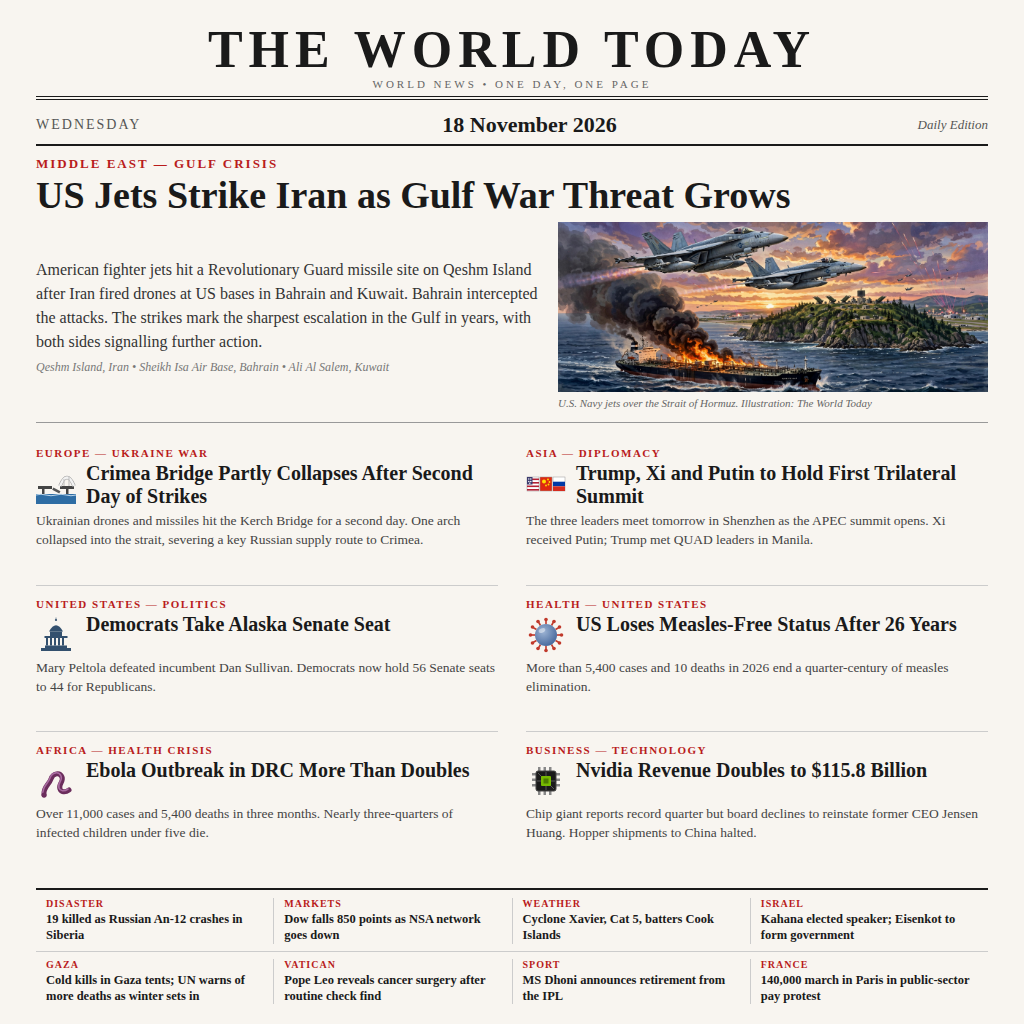
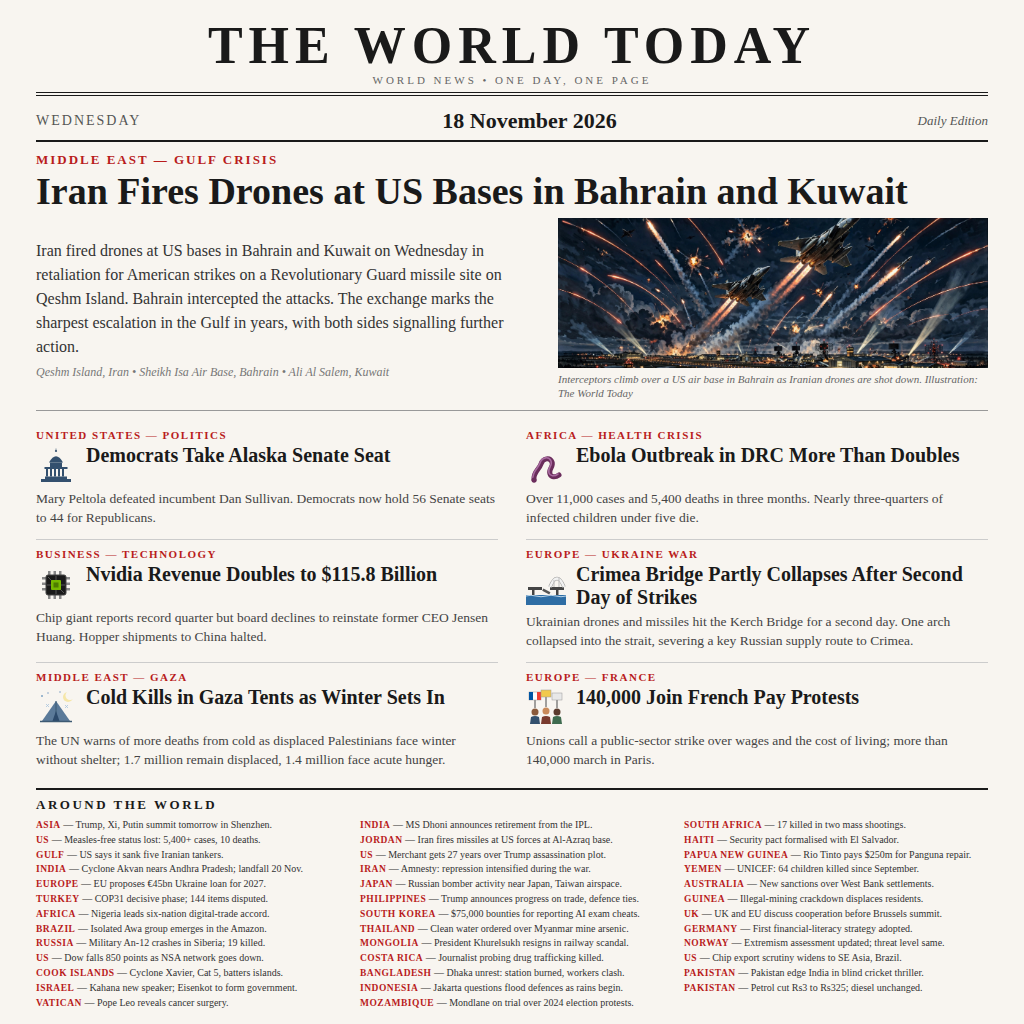
45 stories: reframed drone lead, distinct grid, Around the World

Changed region(s): [[0.0312, 0.0, 0.9688, 1.0], [0.2188, 0.0312, 0.3125, 0.0938]]

diff --git a/image.html b/image.html
@@ -5,7 +5,7 @@
 <style>
   * { margin: 0; padding: 0; box-sizing: border-box; }
   body { width: 1024px; height: 1024px; font-family: Georgia, 'Times New Roman', serif; background: #f8f5f0; color: #1a1a1a; overflow: hidden; }
-  .page { width: 1024px; height: 1024px; padding: 24px 36px 20px; display: flex; flex-direction: column; }
+  .page { width: 1024px; height: 1024px; padding: 20px 36px 14px; display: flex; flex-direction: column; }
 
   /* Masthead */
   .masthead { text-align: center; border-bottom: 4px double #1a1a1a; padding-bottom: 6px; margin-bottom: 6px; }
@@ -19,7 +19,7 @@
   .datebar .edition { font-size: 13px; font-style: italic; color: #555; }
 
   /* Lead story */
-  .lead { border-bottom: 1px solid #999; padding-bottom: 12px; margin-bottom: 12px; }
+  .lead { border-bottom: 1px solid #999; padding-bottom: 10px; margin-bottom: 10px; }
   .lead .kicker { font-size: 13px; font-weight: 700; text-transform: uppercase; letter-spacing: 2px; color: #b91c1c; margin-bottom: 4px; }
   .lead h2 { font-size: 38px; font-weight: 900; line-height: 1.05; margin-bottom: 6px; }
   .lead-row { display: flex; gap: 16px; align-items: center; }
@@ -27,12 +27,12 @@
   .lead-text p { font-size: 16px; line-height: 1.5; color: #333; }
   .lead-text .meta { font-size: 12px; color: #777; margin-top: 6px; font-style: italic; }
   .lead-art { width: 430px; flex-shrink: 0; }
-  .lead-art img { width: 430px; height: 170px; object-fit: cover; object-position: center 42%; display: block; }
+  .lead-art img { width: 430px; height: 150px; object-fit: cover; object-position: center 50%; display: block; }
   .lead-art .caption { font-size: 11px; font-style: italic; color: #666; margin-top: 4px; line-height: 1.3; }
 
   /* Story grid */
   .grid { display: grid; grid-template-columns: 1fr 1fr; gap: 0 28px; flex: 1; }
-  .story { border-bottom: 1px solid #ccc; padding: 12px 0; }
+  .story { border-bottom: 1px solid #ccc; padding: 8px 0; }
   .story:last-child, .story:nth-last-child(2) { border-bottom: none; }
   .story .kicker { font-size: 11px; font-weight: 700; text-transform: uppercase; letter-spacing: 1.5px; color: #b91c1c; margin-bottom: 3px; }
   .story .head-row { display: flex; gap: 10px; align-items: flex-start; margin-bottom: 4px; }
@@ -40,14 +40,12 @@
   .story h3 { font-size: 20px; font-weight: 800; line-height: 1.15; flex: 1; }
   .story p { font-size: 13.5px; line-height: 1.4; color: #444; }
 
-  /* Bottom strip — two rows of briefs */
-  .bottom { border-top: 2px solid #1a1a1a; padding-top: 8px; margin-top: 10px; }
-  .bottom-row { display: flex; justify-content: space-between; }
-  .bottom-row + .bottom-row { border-top: 1px solid #ccc; margin-top: 7px; padding-top: 7px; }
-  .bottom .item { flex: 1; padding: 0 10px; border-right: 1px solid #ccc; }
-  .bottom .item:last-child { border-right: none; }
-  .bottom .item .label { font-size: 10px; font-weight: 700; text-transform: uppercase; letter-spacing: 1px; color: #b91c1c; }
-  .bottom .item .text { font-size: 12.5px; font-weight: 700; line-height: 1.3; margin-top: 2px; }
+  /* Around the World — three columns of one-liners */
+  .around { border-top: 2px solid #1a1a1a; padding-top: 7px; margin-top: 8px; }
+  .around h4 { font-size: 13px; font-weight: 900; letter-spacing: 2.5px; text-transform: uppercase; margin-bottom: 4px; }
+  .around .cols { display: grid; grid-template-columns: 1fr 1fr 1fr; grid-template-rows: repeat(13, auto); grid-auto-flow: column; gap: 0 20px; }
+  .around .wl { font-size: 10px; line-height: 1.35; color: #333; padding: 0.5px 0; }
+  .around .wl b { color: #b91c1c; font-size: 9.5px; letter-spacing: 0.5px; text-transform: uppercase; }
 </style>
 </head>
 <body>
@@ -66,67 +64,20 @@
 
   <div class="lead">
     <div class="kicker">Middle East &mdash; Gulf Crisis</div>
-    <h2>US Jets Strike Iran as Gulf War Threat Grows</h2>
+    <h2>Iran Fires Drones at US Bases in Bahrain and Kuwait</h2>
     <div class="lead-row">
       <div class="lead-text">
-        <p>American fighter jets hit a Revolutionary Guard missile site on Qeshm Island after Iran fired drones at US bases in Bahrain and Kuwait. Bahrain intercepted the attacks. The strikes mark the sharpest escalation in the Gulf in years, with both sides signalling further action.</p>
+        <p>Iran fired drones at US bases in Bahrain and Kuwait on Wednesday in retaliation for American strikes on a Revolutionary Guard missile site on Qeshm Island. Bahrain intercepted the attacks. The exchange marks the sharpest escalation in the Gulf in years, with both sides signalling further action.</p>
         <div class="meta">Qeshm Island, Iran &bull; Sheikh Isa Air Base, Bahrain &bull; Ali Al Salem, Kuwait</div>
       </div>
       <div class="lead-art">
-        <img src="lead.jpg" alt="U.S. Navy jets over the Strait of Hormuz">
-        <div class="caption">U.S. Navy jets over the Strait of Hormuz. Illustration: The World Today</div>
+        <img src="lead.jpg" alt="Interceptors climb over a US air base in Bahrain at night">
+        <div class="caption">Interceptors climb over a US air base in Bahrain as Iranian drones are shot down. Illustration: The World Today</div>
       </div>
     </div>
   </div>
 
   <div class="grid">
-    <div class="story">
-      <div class="kicker">Europe &mdash; Ukraine War</div>
-      <div class="head-row">
-        <svg class="icon" viewBox="0 0 40 40">
-          <rect x="0" y="30" width="40" height="10" fill="#2e6da4"/>
-          <path d="M0 31 Q5 29.5 10 31 T20 31 T30 31 T40 31" stroke="#bcd6ea" stroke-width="1" fill="none"/>
-          <rect x="2" y="22" width="14" height="3" fill="#444"/>
-          <rect x="24" y="22" width="14" height="3" fill="#444"/>
-          <rect x="6" y="25" width="2.5" height="5" fill="#444"/>
-          <rect x="30" y="25" width="2.5" height="5" fill="#444"/>
-          <path d="M24 22 Q31 5 38 22" stroke="#999" stroke-width="3.5" fill="none"/>
-          <path d="M24 22 Q31 5 38 22" stroke="#f2f2f2" stroke-width="2.5" fill="none"/>
-          <line x1="28" y1="15" x2="28" y2="22" stroke="#bbb" stroke-width="1"/>
-          <line x1="33" y1="13" x2="33" y2="22" stroke="#bbb" stroke-width="1"/>
-          <rect x="16.5" y="25" width="8" height="2.5" fill="#555" transform="rotate(28 20 26)"/>
-        </svg>
-        <h3>Crimea Bridge Partly Collapses After Second Day of Strikes</h3>
-      </div>
-      <p>Ukrainian drones and missiles hit the Kerch Bridge for a second day. One arch collapsed into the strait, severing a key Russian supply route to Crimea.</p>
-    </div>
-
-    <div class="story">
-      <div class="kicker">Asia &mdash; Diplomacy</div>
-      <div class="head-row">
-        <svg class="icon" viewBox="0 0 40 40">
-          <rect x="1" y="13" width="12" height="14" fill="#fff" stroke="#999" stroke-width="0.5"/>
-          <rect x="1" y="14.5" width="12" height="1.6" fill="#b22234"/>
-          <rect x="1" y="18" width="12" height="1.6" fill="#b22234"/>
-          <rect x="1" y="21.5" width="12" height="1.6" fill="#b22234"/>
-          <rect x="1" y="25" width="12" height="1.6" fill="#b22234"/>
-          <rect x="1" y="13" width="5.5" height="7.5" fill="#3c3b6e"/>
-          <circle cx="2.8" cy="15" r="0.7" fill="#fff"/><circle cx="4.8" cy="15" r="0.7" fill="#fff"/>
-          <circle cx="2.8" cy="17.5" r="0.7" fill="#fff"/><circle cx="4.8" cy="17.5" r="0.7" fill="#fff"/>
-          <circle cx="3.8" cy="19.3" r="0.7" fill="#fff"/>
-          <rect x="14" y="13" width="12" height="14" fill="#de2910" stroke="#999" stroke-width="0.5"/>
-          <circle cx="18" cy="17.5" r="2" fill="#ffde00"/>
-          <circle cx="22" cy="15.5" r="0.9" fill="#ffde00"/><circle cx="23.5" cy="18" r="0.9" fill="#ffde00"/>
-          <circle cx="22.5" cy="20.5" r="0.9" fill="#ffde00"/><circle cx="20" cy="21.5" r="0.9" fill="#ffde00"/>
-          <rect x="27" y="13" width="12" height="14" fill="#fff" stroke="#999" stroke-width="0.5"/>
-          <rect x="27" y="17.7" width="12" height="4.6" fill="#0039a6"/>
-          <rect x="27" y="22.3" width="12" height="4.7" fill="#d52b1e"/>
-        </svg>
-        <h3>Trump, Xi and Putin to Hold First Trilateral Summit</h3>
-      </div>
-      <p>The three leaders meet tomorrow in Shenzhen as the APEC summit opens. Xi received Putin; Trump met QUAD leaders in Manila.</p>
-    </div>
-
     <div class="story">
       <div class="kicker">United States &mdash; Politics</div>
       <div class="head-row">
@@ -149,35 +100,6 @@
         <h3>Democrats Take Alaska Senate Seat</h3>
       </div>
       <p>Mary Peltola defeated incumbent Dan Sullivan. Democrats now hold 56 Senate seats to 44 for Republicans.</p>
-    </div>
-
-    <div class="story">
-      <div class="kicker">Health &mdash; United States</div>
-      <div class="head-row">
-        <svg class="icon" viewBox="0 0 40 40">
-          <defs><radialGradient id="vir" cx="38%" cy="35%" r="70%">
-            <stop offset="0%" stop-color="#9db4d4"/><stop offset="100%" stop-color="#46689c"/>
-          </radialGradient></defs>
-          <g stroke="#c0392b" stroke-width="1.6">
-            <line x1="31" y1="20" x2="35" y2="20"/><line x1="29.5" y1="25.5" x2="33" y2="27.5"/>
-            <line x1="25.5" y1="29.5" x2="27.5" y2="33"/><line x1="20" y1="31" x2="20" y2="35"/>
-            <line x1="14.5" y1="29.5" x2="12.5" y2="33"/><line x1="10.5" y1="25.5" x2="7" y2="27.5"/>
-            <line x1="9" y1="20" x2="5" y2="20"/><line x1="10.5" y1="14.5" x2="7" y2="12.5"/>
-            <line x1="14.5" y1="10.5" x2="12.5" y2="7"/><line x1="20" y1="9" x2="20" y2="5"/>
-            <line x1="25.5" y1="10.5" x2="27.5" y2="7"/><line x1="29.5" y1="14.5" x2="33" y2="12.5"/>
-          </g>
-          <g fill="#c0392b">
-            <circle cx="35.5" cy="20" r="1.8"/><circle cx="33.5" cy="28" r="1.8"/><circle cx="28" cy="33.5" r="1.8"/>
-            <circle cx="20" cy="35.5" r="1.8"/><circle cx="12" cy="33.5" r="1.8"/><circle cx="6.5" cy="28" r="1.8"/>
-            <circle cx="4.5" cy="20" r="1.8"/><circle cx="6.5" cy="12" r="1.8"/><circle cx="12" cy="6.5" r="1.8"/>
-            <circle cx="20" cy="4.5" r="1.8"/><circle cx="28" cy="6.5" r="1.8"/><circle cx="33.5" cy="12" r="1.8"/>
-          </g>
-          <circle cx="20" cy="20" r="11" fill="url(#vir)"/>
-          <ellipse cx="16" cy="15.5" rx="3.5" ry="2.2" fill="#fff" opacity="0.45" transform="rotate(-25 16 15.5)"/>
-        </svg>
-        <h3>US Loses Measles-Free Status After 26 Years</h3>
-      </div>
-      <p>More than 5,400 cases and 10 deaths in 2026 end a quarter-century of measles elimination.</p>
     </div>
 
     <div class="story">
@@ -218,44 +140,117 @@
       </div>
       <p>Chip giant reports record quarter but board declines to reinstate former CEO Jensen Huang. Hopper shipments to China halted.</p>
     </div>
+
+    <div class="story">
+      <div class="kicker">Europe &mdash; Ukraine War</div>
+      <div class="head-row">
+        <svg class="icon" viewBox="0 0 40 40">
+          <rect x="0" y="30" width="40" height="10" fill="#2e6da4"/>
+          <path d="M0 31 Q5 29.5 10 31 T20 31 T30 31 T40 31" stroke="#bcd6ea" stroke-width="1" fill="none"/>
+          <rect x="2" y="22" width="14" height="3" fill="#444"/>
+          <rect x="24" y="22" width="14" height="3" fill="#444"/>
+          <rect x="6" y="25" width="2.5" height="5" fill="#444"/>
+          <rect x="30" y="25" width="2.5" height="5" fill="#444"/>
+          <path d="M24 22 Q31 5 38 22" stroke="#999" stroke-width="3.5" fill="none"/>
+          <path d="M24 22 Q31 5 38 22" stroke="#f2f2f2" stroke-width="2.5" fill="none"/>
+          <line x1="28" y1="15" x2="28" y2="22" stroke="#bbb" stroke-width="1"/>
+          <line x1="33" y1="13" x2="33" y2="22" stroke="#bbb" stroke-width="1"/>
+          <rect x="16.5" y="25" width="8" height="2.5" fill="#555" transform="rotate(28 20 26)"/>
+        </svg>
+        <h3>Crimea Bridge Partly Collapses After Second Day of Strikes</h3>
+      </div>
+      <p>Ukrainian drones and missiles hit the Kerch Bridge for a second day. One arch collapsed into the strait, severing a key Russian supply route to Crimea.</p>
+    </div>
+
+    <div class="story">
+      <div class="kicker">Middle East &mdash; Gaza</div>
+      <div class="head-row">
+        <svg class="icon" viewBox="0 0 40 40">
+          <circle cx="32" cy="9" r="5" fill="#f5e6a8"/>
+          <circle cx="34" cy="7.5" r="4.5" fill="#f8f5f0"/>
+          <circle cx="6" cy="8" r="1" fill="#7fa3c4"/>
+          <circle cx="12" cy="5" r="0.8" fill="#7fa3c4"/>
+          <circle cx="24" cy="4" r="0.8" fill="#7fa3c4"/>
+          <path d="M6 33 L20 13 L34 33 Z" fill="#5b7a99"/>
+          <path d="M20 13 L20 33" stroke="#3d5a73" stroke-width="1"/>
+          <path d="M16.5 33 L20 23 L23.5 33 Z" fill="#2c4a6b"/>
+          <line x1="4" y1="33.5" x2="36" y2="33.5" stroke="#3d5a73" stroke-width="1.5"/>
+          <g stroke="#a8c4dd" stroke-width="0.8">
+            <line x1="10" y1="16" x2="13" y2="19"/><line x1="13" y1="16" x2="10" y2="19"/>
+            <line x1="29" y1="17" x2="32" y2="20"/><line x1="32" y1="17" x2="29" y2="20"/>
+          </g>
+        </svg>
+        <h3>Cold Kills in Gaza Tents as Winter Sets In</h3>
+      </div>
+      <p>The UN warns of more deaths from cold as displaced Palestinians face winter without shelter; 1.7 million remain displaced, 1.4 million face acute hunger.</p>
+    </div>
+
+    <div class="story">
+      <div class="kicker">Europe &mdash; France</div>
+      <div class="head-row">
+        <svg class="icon" viewBox="0 0 40 40">
+          <line x1="9" y1="20" x2="9" y2="11" stroke="#666" stroke-width="1.2"/>
+          <line x1="20" y1="19" x2="20" y2="9" stroke="#666" stroke-width="1.2"/>
+          <line x1="31" y1="20" x2="31" y2="12" stroke="#666" stroke-width="1.2"/>
+          <rect x="3" y="4" width="12" height="8" fill="#fff" stroke="#999" stroke-width="0.5"/>
+          <rect x="3" y="4" width="4" height="8" fill="#0055a4"/>
+          <rect x="11" y="4" width="4" height="8" fill="#ef4135"/>
+          <rect x="15" y="2" width="10" height="7" fill="#f2c94c" stroke="#999" stroke-width="0.5"/>
+          <rect x="26" y="5" width="10" height="7" fill="#e8e8e8" stroke="#999" stroke-width="0.5"/>
+          <circle cx="9" cy="24" r="3.5" fill="#8a5a3b"/>
+          <path d="M4 36 L5 29 Q9 27 13 29 L14 36 Z" fill="#33506e"/>
+          <circle cx="20" cy="23" r="3.5" fill="#c98a5a"/>
+          <path d="M15 36 L16 29 Q20 27 24 29 L25 36 Z" fill="#7a3b2e"/>
+          <circle cx="31" cy="24" r="3.5" fill="#5a3b2e"/>
+          <path d="M26 36 L27 29 Q31 27 35 29 L36 36 Z" fill="#3e6b4f"/>
+        </svg>
+        <h3>140,000 Join French Pay Protests</h3>
+      </div>
+      <p>Unions call a public-sector strike over wages and the cost of living; more than 140,000 march in Paris.</p>
+    </div>
   </div>
 
-  <div class="bottom">
-    <div class="bottom-row">
-      <div class="item">
-        <div class="label">Disaster</div>
-        <div class="text">19 killed as Russian An-12 crashes in Siberia</div>
-      </div>
-      <div class="item">
-        <div class="label">Markets</div>
-        <div class="text">Dow falls 850 points as NSA network goes down</div>
-      </div>
-      <div class="item">
-        <div class="label">Weather</div>
-        <div class="text">Cyclone Xavier, Cat 5, batters Cook Islands</div>
-      </div>
-      <div class="item">
-        <div class="label">Israel</div>
-        <div class="text">Kahana elected speaker; Eisenkot to form government</div>
-      </div>
-    </div>
-    <div class="bottom-row">
-      <div class="item">
-        <div class="label">Gaza</div>
-        <div class="text">Cold kills in Gaza tents; UN warns of more deaths as winter sets in</div>
-      </div>
-      <div class="item">
-        <div class="label">Vatican</div>
-        <div class="text">Pope Leo reveals cancer surgery after routine check find</div>
-      </div>
-      <div class="item">
-        <div class="label">Sport</div>
-        <div class="text">MS Dhoni announces retirement from the IPL</div>
-      </div>
-      <div class="item">
-        <div class="label">France</div>
-        <div class="text">140,000 march in Paris in public-sector pay protest</div>
-      </div>
+  <div class="around">
+    <h4>Around the World</h4>
+    <div class="cols">
+      <div class="wl"><b>Asia</b> &mdash; Trump, Xi, Putin summit tomorrow in Shenzhen.</div>
+      <div class="wl"><b>US</b> &mdash; Measles-free status lost: 5,400+ cases, 10 deaths.</div>
+      <div class="wl"><b>Gulf</b> &mdash; US says it sank five Iranian tankers.</div>
+      <div class="wl"><b>India</b> &mdash; Cyclone Akvan nears Andhra Pradesh; landfall 20 Nov.</div>
+      <div class="wl"><b>Europe</b> &mdash; EU proposes &euro;45bn Ukraine loan for 2027.</div>
+      <div class="wl"><b>Turkey</b> &mdash; COP31 decisive phase; 144 items disputed.</div>
+      <div class="wl"><b>Africa</b> &mdash; Nigeria leads six-nation digital-trade accord.</div>
+      <div class="wl"><b>Brazil</b> &mdash; Isolated Awa group emerges in the Amazon.</div>
+      <div class="wl"><b>Russia</b> &mdash; Military An-12 crashes in Siberia; 19 killed.</div>
+      <div class="wl"><b>US</b> &mdash; Dow falls 850 points as NSA network goes down.</div>
+      <div class="wl"><b>Cook Islands</b> &mdash; Cyclone Xavier, Cat 5, batters islands.</div>
+      <div class="wl"><b>Israel</b> &mdash; Kahana new speaker; Eisenkot to form government.</div>
+      <div class="wl"><b>Vatican</b> &mdash; Pope Leo reveals cancer surgery.</div>
+      <div class="wl"><b>India</b> &mdash; MS Dhoni announces retirement from the IPL.</div>
+      <div class="wl"><b>Jordan</b> &mdash; Iran fires missiles at US forces at Al-Azraq base.</div>
+      <div class="wl"><b>US</b> &mdash; Merchant gets 27 years over Trump assassination plot.</div>
+      <div class="wl"><b>Iran</b> &mdash; Amnesty: repression intensified during the war.</div>
+      <div class="wl"><b>Japan</b> &mdash; Russian bomber activity near Japan, Taiwan airspace.</div>
+      <div class="wl"><b>Philippines</b> &mdash; Trump announces progress on trade, defence ties.</div>
+      <div class="wl"><b>South Korea</b> &mdash; $75,000 bounties for reporting AI exam cheats.</div>
+      <div class="wl"><b>Thailand</b> &mdash; Clean water ordered over Myanmar mine arsenic.</div>
+      <div class="wl"><b>Mongolia</b> &mdash; President Khurelsukh resigns in railway scandal.</div>
+      <div class="wl"><b>Costa Rica</b> &mdash; Journalist probing drug trafficking killed.</div>
+      <div class="wl"><b>Bangladesh</b> &mdash; Dhaka unrest: station burned, workers clash.</div>
+      <div class="wl"><b>Indonesia</b> &mdash; Jakarta questions flood defences as rains begin.</div>
+      <div class="wl"><b>Mozambique</b> &mdash; Mondlane on trial over 2024 election protests.</div>
+      <div class="wl"><b>South Africa</b> &mdash; 17 killed in two mass shootings.</div>
+      <div class="wl"><b>Haiti</b> &mdash; Security pact formalised with El Salvador.</div>
+      <div class="wl"><b>Papua New Guinea</b> &mdash; Rio Tinto pays $250m for Panguna repair.</div>
+      <div class="wl"><b>Yemen</b> &mdash; UNICEF: 64 children killed since September.</div>
+      <div class="wl"><b>Australia</b> &mdash; New sanctions over West Bank settlements.</div>
+      <div class="wl"><b>Guinea</b> &mdash; Illegal-mining crackdown displaces residents.</div>
+      <div class="wl"><b>UK</b> &mdash; UK and EU discuss cooperation before Brussels summit.</div>
+      <div class="wl"><b>Germany</b> &mdash; First financial-literacy strategy adopted.</div>
+      <div class="wl"><b>Norway</b> &mdash; Extremism assessment updated; threat level same.</div>
+      <div class="wl"><b>US</b> &mdash; Chip export scrutiny widens to SE Asia, Brazil.</div>
+      <div class="wl"><b>Pakistan</b> &mdash; Pakistan edge India in blind cricket thriller.</div>
+      <div class="wl"><b>Pakistan</b> &mdash; Petrol cut Rs3 to Rs325; diesel unchanged.</div>
     </div>
   </div>
 
